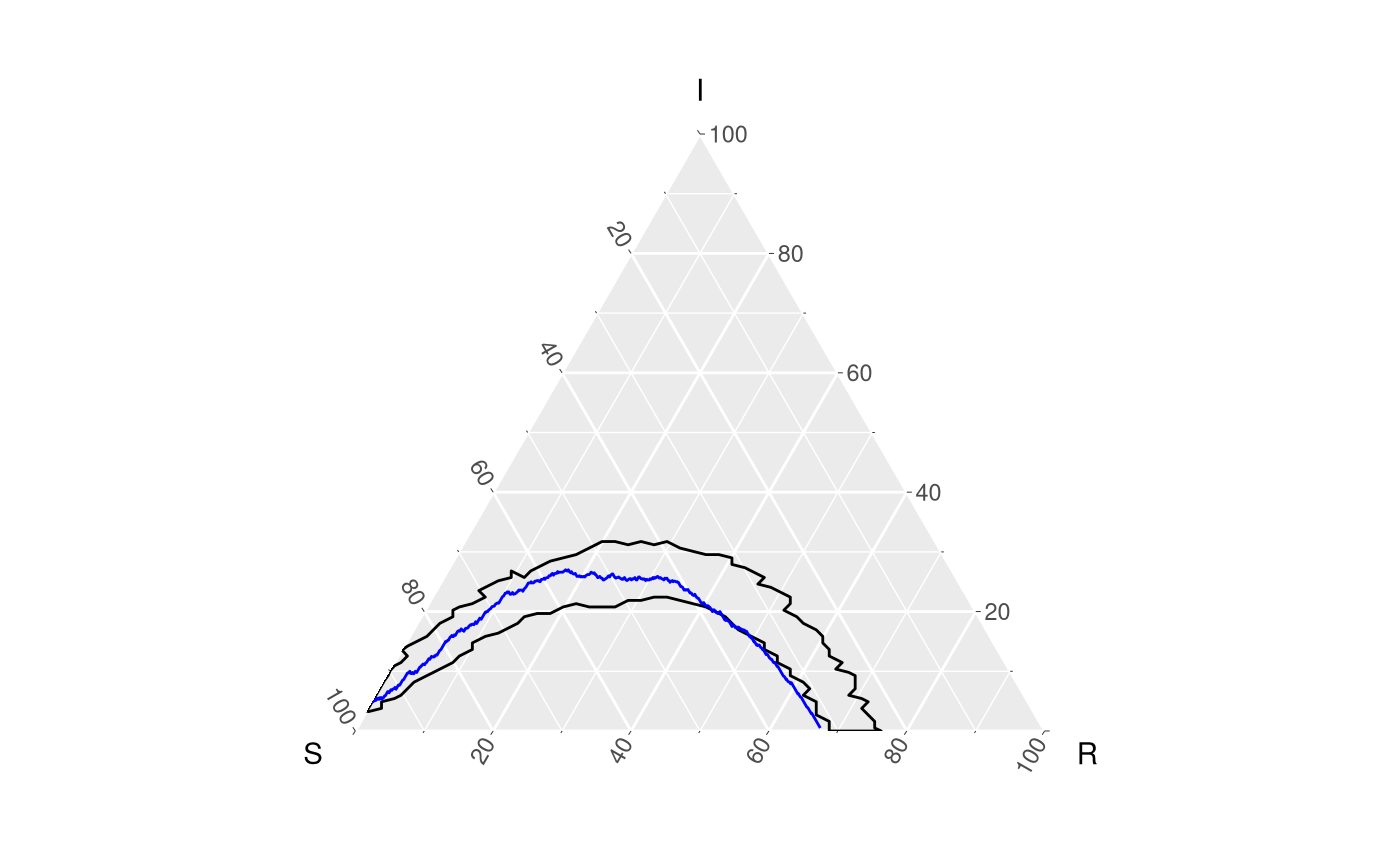
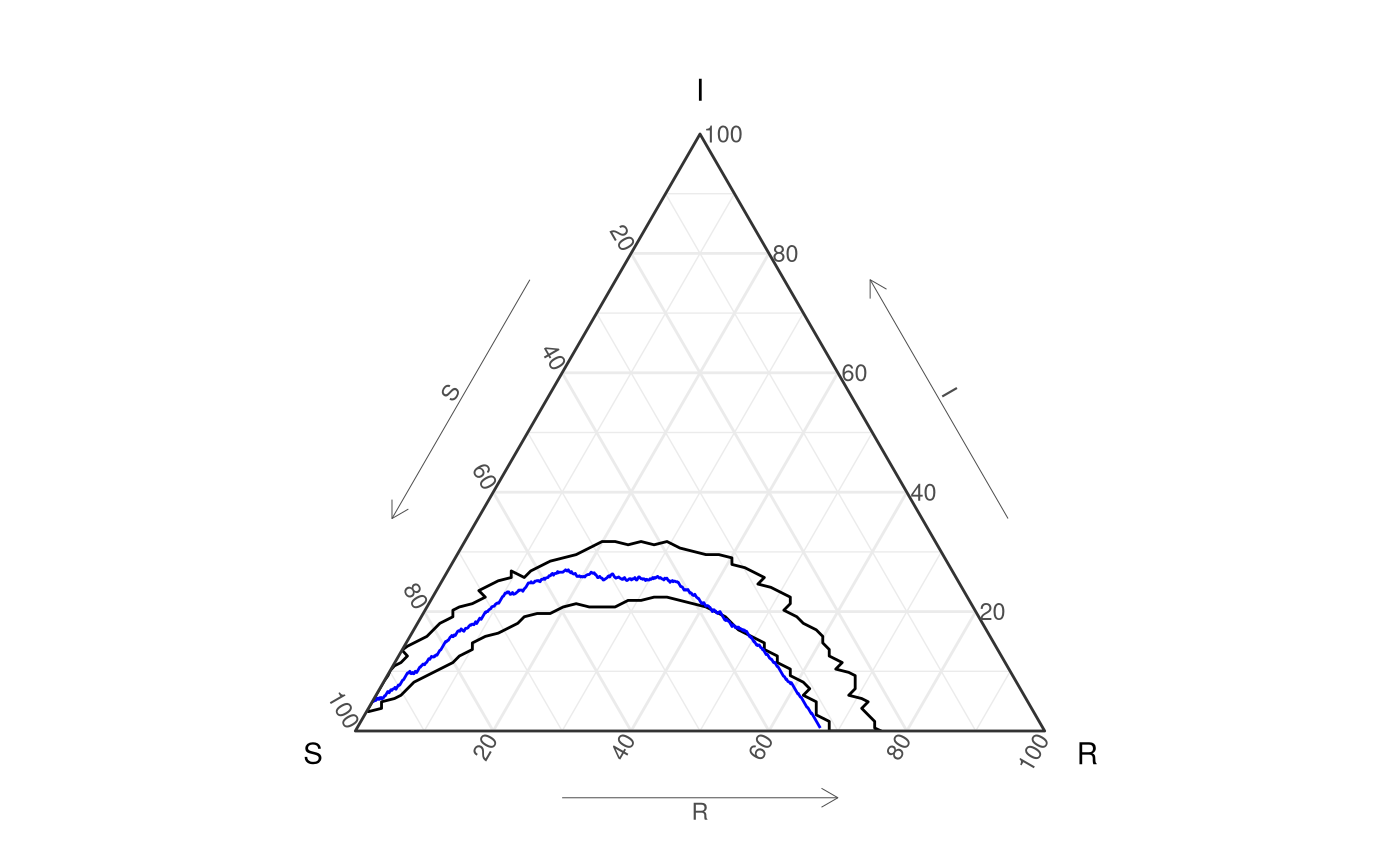
Added a small theme with arrows

diff --git a/docs/reference/theme_sir.html b/docs/reference/theme_sir.html
@@ -6,7 +6,7 @@
 <meta http-equiv="X-UA-Compatible" content="IE=edge">
 <meta name="viewport" content="width=device-width, initial-scale=1.0">
 
-<title>Take external aggregate data and put it in a format used in this package — fortify_aggregate.dcm • EpiCompare</title>
+<title>Add a portable theme for SIR ternary plots — theme_sir • EpiCompare</title>
 
 <!-- favicons -->
 <link rel="icon" type="image/png" sizes="16x16" href="../favicon-16x16.png">
@@ -46,8 +46,8 @@
 
 
 
-<meta property="og:title" content="Take external aggregate data and put it in a format used in this package — fortify_aggregate.dcm" />
-<meta property="og:description" content="Take external aggregate data and put it in a format used in this package" />
+<meta property="og:title" content="Add a portable theme for SIR ternary plots — theme_sir" />
+<meta property="og:description" content="Add a portable theme for SIR ternary plots" />
 <meta property="og:image" content="/logo.png" />
 
 
@@ -140,63 +140,22 @@
 <div class="row">
   <div class="col-md-9 contents">
     <div class="page-header">
-    <h1>Take external aggregate data and put it in a format used in this package</h1>
-    <small class="dont-index">Source: <a href='https://github.com/skgallagher/EpiCompare/blob/master/R/fortify-aggregate-epimodel-dcm.R'><code>R/fortify-aggregate-epimodel-dcm.R</code></a></small>
-    <div class="hidden name"><code>fortify_aggregate.dcm.Rd</code></div>
+    <h1>Add a portable theme for SIR ternary plots</h1>
+    <small class="dont-index">Source: <a href='https://github.com/skgallagher/EpiCompare/blob/master/R/theme-sir.R'><code>R/theme-sir.R</code></a></small>
+    <div class="hidden name"><code>theme_sir.Rd</code></div>
     </div>
 
     <div class="ref-description">
-    <p>Take external aggregate data and put it in a format used in this package</p>
+    <p>Add a portable theme for SIR ternary plots</p>
     </div>
 
-    <pre class="usage"><span class='co'># S3 method for dcm</span>
-<span class='fu'><a href='fortify_aggregate.html'>fortify_aggregate</a></span>(<span class='no'>data</span>, <span class='no'>states</span>, <span class='kw'>package_source</span> <span class='kw'>=</span> <span class='kw'>NULL</span>)</pre>
+    <pre class="usage"><span class='fu'>theme_sir</span>()</pre>
 
-    <h2 class="hasAnchor" id="arguments"><a class="anchor" href="#arguments"></a>Arguments</h2>
-    <table class="ref-arguments">
-    <colgroup><col class="name" /><col class="desc" /></colgroup>
-    <tr>
-      <th>data</th>
-      <td><p>output from external source package.  See details</p></td>
-    </tr>
-    <tr>
-      <th>states</th>
-      <td><p>names of states we want aggregate totals of at each time</p></td>
-    </tr>
-    <tr>
-      <th>package_source</th>
-      <td><p>optional argument to include the package from which the
-output is derived from, which helps with the fortify function when outputs
-are of generic classes such as list or data.frame</p></td>
-    </tr>
-    </table>
 
     <h2 class="hasAnchor" id="value"><a class="anchor" href="#value"></a>Value</h2>
 
-    <p>a data frame with the following columns</p><dl'>
-<dt>t</dt><dd><p>time</p></dd>
-<dt>Xk</dt><dd><p>columns X0, ..., X_K. which are numeric</p></dd>
+    <p>theme to add to ggtern plots</p>
 
-</dl>
-
-    <h2 class="hasAnchor" id="details"><a class="anchor" href="#details"></a>Details</h2>
-
-    <p>This function converts external data sources (we currently support
-  output from the EpiModel and pomp R packages), which is already aggregated
-  and puts it in a format that can be used by our exploring functions.</p>
-
-    <h2 class="hasAnchor" id="examples"><a class="anchor" href="#examples"></a>Examples</h2>
-    <pre class="examples"><div class='input'><span class='co'>## For dcm</span>
-<span class='no'>out</span> <span class='kw'>&lt;-</span> <span class='fu'><a href='fortify_aggregate.html'>fortify_aggregate</a></span>(<span class='no'>EpiModel_det</span>)
-<span class='fu'><a href='https://rdrr.io/r/utils/head.html'>head</a></span>(<span class='no'>out</span>)</div><div class='output co'>#&gt; <span style='color: #555555;'># A tibble: 6 x 6</span><span>
-#&gt;       t orig_t sim      X0    X1    X2
-#&gt;   </span><span style='color: #555555;font-style: italic;'>&lt;int&gt;</span><span>  </span><span style='color: #555555;font-style: italic;'>&lt;dbl&gt;</span><span> </span><span style='color: #555555;font-style: italic;'>&lt;fct&gt;</span><span> </span><span style='color: #555555;font-style: italic;'>&lt;dbl&gt;</span><span> </span><span style='color: #555555;font-style: italic;'>&lt;dbl&gt;</span><span> </span><span style='color: #555555;font-style: italic;'>&lt;dbl&gt;</span><span>
-#&gt; </span><span style='color: #555555;'>1</span><span>     1      1 run1   900   100   0   
-#&gt; </span><span style='color: #555555;'>2</span><span>     2      2 run1   885.  113.  2.13
-#&gt; </span><span style='color: #555555;'>3</span><span>     3      3 run1   868.  128.  4.53
-#&gt; </span><span style='color: #555555;'>4</span><span>     4      4 run1   849.  143.  7.24
-#&gt; </span><span style='color: #555555;'>5</span><span>     5      5 run1   829.  161. 10.3 
-#&gt; </span><span style='color: #555555;'>6</span><span>     6      6 run1   807.  180. 13.7 </div></span></pre>
   </div>
   <div class="col-md-3 hidden-xs hidden-sm" id="pkgdown-sidebar">
     <nav id="toc" data-toggle="toc" class="sticky-top">

diff --git a/docs/reference/fortify_aggregate.icm.html b/docs/reference/fortify_aggregate.icm.html
@@ -188,15 +188,15 @@ are of generic classes such as list or data.frame</p></td>
     <h2 class="hasAnchor" id="examples"><a class="anchor" href="#examples"></a>Examples</h2>
     <pre class="examples"><div class='input'><span class='co'>## For icm</span>
 <span class='no'>out</span> <span class='kw'>&lt;-</span> <span class='fu'><a href='fortify_aggregate.html'>fortify_aggregate</a></span>(<span class='no'>EpiModel_icm</span>)
-<span class='fu'><a href='https://rdrr.io/r/utils/head.html'>head</a></span>(<span class='no'>out</span>)</div><div class='output co'>#&gt; <span style='color: #949494;'># A tibble: 6 x 6</span><span>
+<span class='fu'><a href='https://rdrr.io/r/utils/head.html'>head</a></span>(<span class='no'>out</span>)</div><div class='output co'>#&gt; <span style='color: #555555;'># A tibble: 6 x 6</span><span>
 #&gt;       t orig_t sim      X0    X1    X2
-#&gt;   </span><span style='color: #949494;font-style: italic;'>&lt;int&gt;</span><span>  </span><span style='color: #949494;font-style: italic;'>&lt;int&gt;</span><span> </span><span style='color: #949494;font-style: italic;'>&lt;fct&gt;</span><span> </span><span style='color: #949494;font-style: italic;'>&lt;int&gt;</span><span> </span><span style='color: #949494;font-style: italic;'>&lt;int&gt;</span><span> </span><span style='color: #949494;font-style: italic;'>&lt;int&gt;</span><span>
-#&gt; </span><span style='color: #BCBCBC;'>1</span><span>     1      1 sim1    900   100     0
-#&gt; </span><span style='color: #BCBCBC;'>2</span><span>     1      1 sim2    900   100     0
-#&gt; </span><span style='color: #BCBCBC;'>3</span><span>     1      1 sim3    900   100     0
-#&gt; </span><span style='color: #BCBCBC;'>4</span><span>     1      1 sim4    900   100     0
-#&gt; </span><span style='color: #BCBCBC;'>5</span><span>     1      1 sim5    900   100     0
-#&gt; </span><span style='color: #BCBCBC;'>6</span><span>     1      1 sim6    900   100     0</div></span></pre>
+#&gt;   </span><span style='color: #555555;font-style: italic;'>&lt;int&gt;</span><span>  </span><span style='color: #555555;font-style: italic;'>&lt;int&gt;</span><span> </span><span style='color: #555555;font-style: italic;'>&lt;fct&gt;</span><span> </span><span style='color: #555555;font-style: italic;'>&lt;int&gt;</span><span> </span><span style='color: #555555;font-style: italic;'>&lt;int&gt;</span><span> </span><span style='color: #555555;font-style: italic;'>&lt;int&gt;</span><span>
+#&gt; </span><span style='color: #555555;'>1</span><span>     1      1 sim1    900   100     0
+#&gt; </span><span style='color: #555555;'>2</span><span>     1      1 sim2    900   100     0
+#&gt; </span><span style='color: #555555;'>3</span><span>     1      1 sim3    900   100     0
+#&gt; </span><span style='color: #555555;'>4</span><span>     1      1 sim4    900   100     0
+#&gt; </span><span style='color: #555555;'>5</span><span>     1      1 sim5    900   100     0
+#&gt; </span><span style='color: #555555;'>6</span><span>     1      1 sim6    900   100     0</div></span></pre>
   </div>
   <div class="col-md-3 hidden-xs hidden-sm" id="pkgdown-sidebar">
     <nav id="toc" data-toggle="toc" class="sticky-top">

diff --git a/docs/reference/sis_data_f.html b/docs/reference/sis_data_f.html
@@ -177,15 +177,15 @@ We then use <code><a href='fortify_aggregate.html'>fortify_aggregate()</a></code
     <h2 class="hasAnchor" id="examples"><a class="anchor" href="#examples"></a>Examples</h2>
     <pre class="examples"><div class='input'><span class='fu'><a href='https://rdrr.io/r/base/library.html'>library</a></span>(<span class='no'>EpiModel</span>)
 <span class='fu'><a href='https://rdrr.io/r/utils/data.html'>data</a></span>(<span class='no'>sis_data_f</span>)
-<span class='fu'><a href='https://rdrr.io/r/utils/head.html'>head</a></span>(<span class='no'>sis_data_f</span>)</div><div class='output co'>#&gt; <span style='color: #949494;'># A tibble: 6 x 5</span><span>
+<span class='fu'><a href='https://rdrr.io/r/utils/head.html'>head</a></span>(<span class='no'>sis_data_f</span>)</div><div class='output co'>#&gt; <span style='color: #555555;'># A tibble: 6 x 5</span><span>
 #&gt;       t orig_t sim      X0    X1
-#&gt;   </span><span style='color: #949494;font-style: italic;'>&lt;int&gt;</span><span>  </span><span style='color: #949494;font-style: italic;'>&lt;dbl&gt;</span><span> </span><span style='color: #949494;font-style: italic;'>&lt;fct&gt;</span><span> </span><span style='color: #949494;font-style: italic;'>&lt;dbl&gt;</span><span> </span><span style='color: #949494;font-style: italic;'>&lt;dbl&gt;</span><span>
-#&gt; </span><span style='color: #BCBCBC;'>1</span><span>     1      1 run1   499   1   
-#&gt; </span><span style='color: #BCBCBC;'>2</span><span>     2      2 run1   499.  1.16
-#&gt; </span><span style='color: #BCBCBC;'>3</span><span>     3      3 run1   499.  1.35
-#&gt; </span><span style='color: #BCBCBC;'>4</span><span>     4      4 run1   498.  1.57
-#&gt; </span><span style='color: #BCBCBC;'>5</span><span>     5      5 run1   498.  1.82
-#&gt; </span><span style='color: #BCBCBC;'>6</span><span>     6      6 run1   498.  2.11</div></span></pre>
+#&gt;   </span><span style='color: #555555;font-style: italic;'>&lt;int&gt;</span><span>  </span><span style='color: #555555;font-style: italic;'>&lt;dbl&gt;</span><span> </span><span style='color: #555555;font-style: italic;'>&lt;fct&gt;</span><span> </span><span style='color: #555555;font-style: italic;'>&lt;dbl&gt;</span><span> </span><span style='color: #555555;font-style: italic;'>&lt;dbl&gt;</span><span>
+#&gt; </span><span style='color: #555555;'>1</span><span>     1      1 run1   499   1   
+#&gt; </span><span style='color: #555555;'>2</span><span>     2      2 run1   499.  1.16
+#&gt; </span><span style='color: #555555;'>3</span><span>     3      3 run1   499.  1.35
+#&gt; </span><span style='color: #555555;'>4</span><span>     4      4 run1   498.  1.57
+#&gt; </span><span style='color: #555555;'>5</span><span>     5      5 run1   498.  1.82
+#&gt; </span><span style='color: #555555;'>6</span><span>     6      6 run1   498.  2.11</div></span></pre>
   </div>
   <div class="col-md-3 hidden-xs hidden-sm" id="pkgdown-sidebar">
     <nav id="toc" data-toggle="toc" class="sticky-top">

diff --git a/docs/index.html b/docs/index.html
@@ -5,7 +5,7 @@
 <meta charset="utf-8">
 <meta http-equiv="X-UA-Compatible" content="IE=edge">
 <meta name="viewport" content="width=device-width, initial-scale=1.0">
-<title>functional based data visualized with ternary plots in the simplex • EpiCompare</title>
+<title>EpiCompare • EpiCompare</title>
 <!-- favicons --><link rel="icon" type="image/png" sizes="16x16" href="favicon-16x16.png">
 <link rel="icon" type="image/png" sizes="32x32" href="favicon-32x32.png">
 <link rel="apple-touch-icon" type="image/png" sizes="180x180" href="apple-touch-icon.png">
@@ -17,8 +17,8 @@
 <script src="bootstrap-toc.js"></script><!-- Font Awesome icons --><link rel="stylesheet" href="https://cdnjs.cloudflare.com/ajax/libs/font-awesome/5.12.1/css/all.min.css" integrity="sha256-mmgLkCYLUQbXn0B1SRqzHar6dCnv9oZFPEC1g1cwlkk=" crossorigin="anonymous">
 <link rel="stylesheet" href="https://cdnjs.cloudflare.com/ajax/libs/font-awesome/5.12.1/css/v4-shims.min.css" integrity="sha256-wZjR52fzng1pJHwx4aV2AO3yyTOXrcDW7jBpJtTwVxw=" crossorigin="anonymous">
 <!-- clipboard.js --><script src="https://cdnjs.cloudflare.com/ajax/libs/clipboard.js/2.0.6/clipboard.min.js" integrity="sha256-inc5kl9MA1hkeYUt+EC3BhlIgyp/2jDIyBLS6k3UxPI=" crossorigin="anonymous"></script><!-- headroom.js --><script src="https://cdnjs.cloudflare.com/ajax/libs/headroom/0.11.0/headroom.min.js" integrity="sha256-AsUX4SJE1+yuDu5+mAVzJbuYNPHj/WroHuZ8Ir/CkE0=" crossorigin="anonymous"></script><script src="https://cdnjs.cloudflare.com/ajax/libs/headroom/0.11.0/jQuery.headroom.min.js" integrity="sha256-ZX/yNShbjqsohH1k95liqY9Gd8uOiE1S4vZc+9KQ1K4=" crossorigin="anonymous"></script><!-- pkgdown --><link href="pkgdown.css" rel="stylesheet">
-<script src="pkgdown.js"></script><meta property="og:title" content="functional based data visualized with ternary plots in the simplex">
-<meta property="og:description" content="functional based data visualized with ternary plots in the simplex.">
+<script src="pkgdown.js"></script><meta property="og:title" content="EpiCompare">
+<meta property="og:description" content="A pipeline to analyze and compare infectious disease epidemics.">
 <meta property="og:image" content="/logo.png">
 <!-- mathjax --><script src="https://cdnjs.cloudflare.com/ajax/libs/mathjax/2.7.5/MathJax.js" integrity="sha256-nvJJv9wWKEm88qvoQl9ekL2J+k/RWIsaSScxxlsrv8k=" crossorigin="anonymous"></script><script src="https://cdnjs.cloudflare.com/ajax/libs/mathjax/2.7.5/config/TeX-AMS-MML_HTMLorMML.js" integrity="sha256-84DKXVJXs0/F8OTMzX4UR909+jtl4G7SPypPavF+GfA=" crossorigin="anonymous"></script><!--[if lt IE 9]>
 <script src="https://oss.maxcdn.com/html5shiv/3.7.3/html5shiv.min.js"></script>

diff --git a/docs/reference/check_ordered.html b/docs/reference/check_ordered.html
@@ -208,12 +208,12 @@ states).</p>
 #&gt; 5  5  TRUE group2 &lt;= group1
 #&gt; 
 #&gt; $summary_df
-#&gt; <span style='color: #949494;'># A tibble: 2 x 3</span><span>
-#&gt; </span><span style='color: #949494;'># Groups:   ordering [2]</span><span>
+#&gt; <span style='color: #555555;'># A tibble: 2 x 3</span><span>
+#&gt; </span><span style='color: #555555;'># Groups:   ordering [2]</span><span>
 #&gt;   ordering         error count
-#&gt;   </span><span style='color: #949494;font-style: italic;'>&lt;chr&gt;</span><span>            </span><span style='color: #949494;font-style: italic;'>&lt;lgl&gt;</span><span> </span><span style='color: #949494;font-style: italic;'>&lt;int&gt;</span><span>
-#&gt; </span><span style='color: #BCBCBC;'>1</span><span> group1 &lt;= group2 FALSE     4
-#&gt; </span><span style='color: #BCBCBC;'>2</span><span> group2 &lt;= group1 TRUE      1
+#&gt;   </span><span style='color: #555555;font-style: italic;'>&lt;chr&gt;</span><span>            </span><span style='color: #555555;font-style: italic;'>&lt;lgl&gt;</span><span> </span><span style='color: #555555;font-style: italic;'>&lt;int&gt;</span><span>
+#&gt; </span><span style='color: #555555;'>1</span><span> group1 &lt;= group2 FALSE     4
+#&gt; </span><span style='color: #555555;'>2</span><span> group2 &lt;= group1 TRUE      1
 #&gt; </div><div class='input'>
 </div></span></pre>
   </div>

diff --git a/docs/reference/index.html b/docs/reference/index.html
@@ -1187,6 +1187,12 @@ puts it in SIR format for EpiCompare.</p></td>
       </tr><tr>
         
         <td>
+          <p><code><a href="theme_sir.html">theme_sir()</a></code> </p>
+        </td>
+        <td><p>Add a portable theme for SIR ternary plots</p></td>
+      </tr><tr>
+        
+        <td>
           <p><code><a href="tidyr_new_interface.html">tidyr_new_interface()</a></code> </p>
         </td>
         <td><p>logic to check if tidyverse (and tidyr specifically is up to version 1.0)</p></td>
